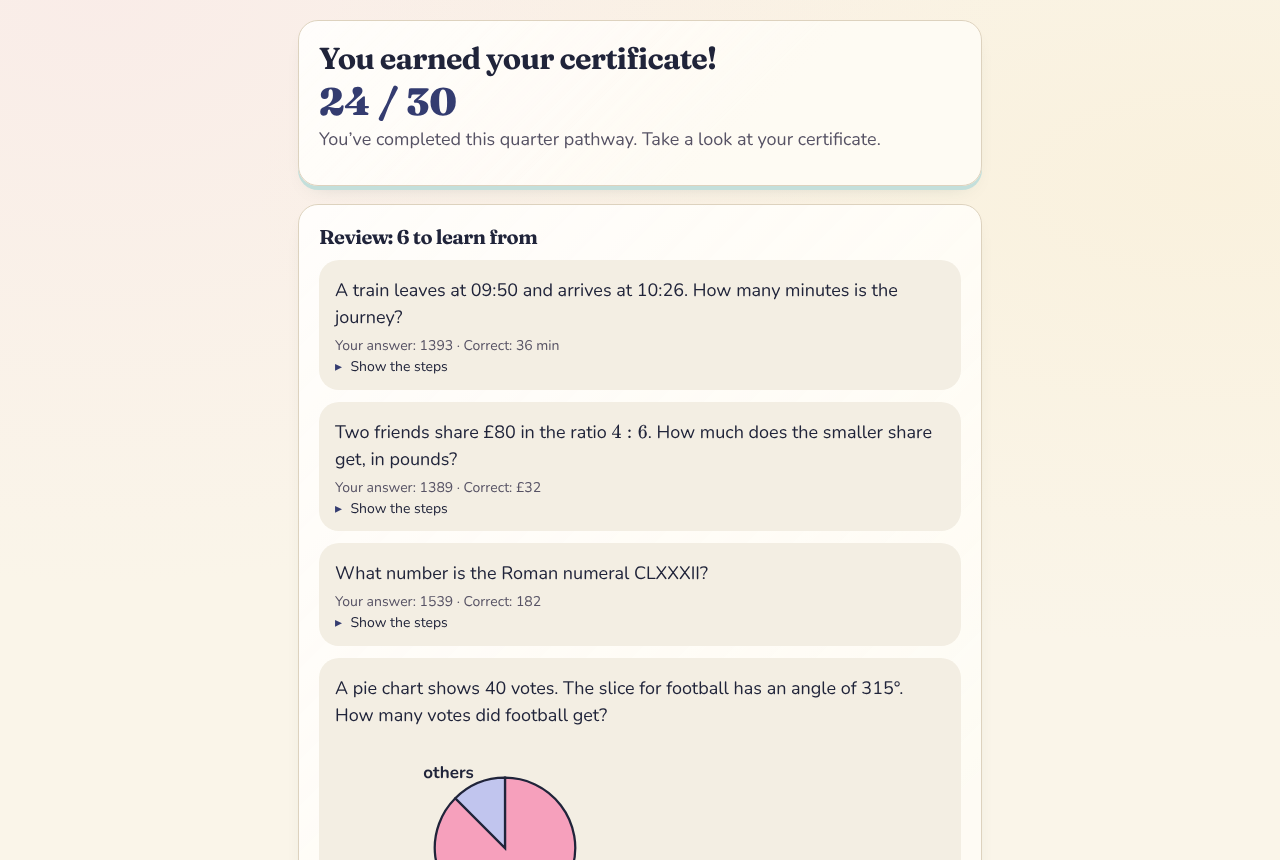
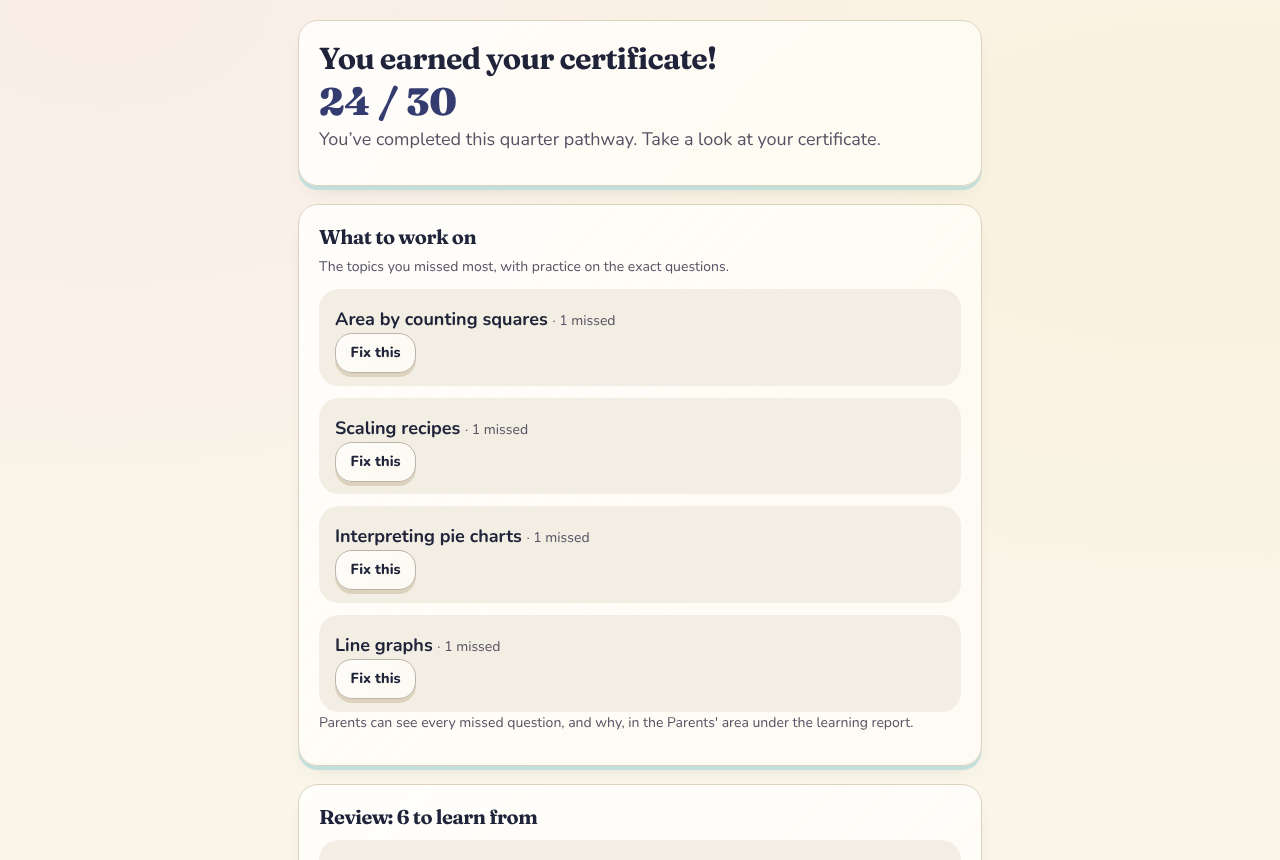
Practice paper results: What to work on with Fix this; check-up and paper questions carry seeds; script to collect official 11+ pages; docs updated
Claude-Session: https://claude.ai/code/session_01Qdz8m3LRPahDuy21jw456m

Changed region(s): [[0.25, 0.4837, 0.7188, 0.8465], [0.25, 0.2721, 0.6875, 0.4535], [0.2188, 0.8767, 0.7812, 1.0]]

diff --git a/maths/scripts/fetch-11plus-pages.ts b/maths/scripts/fetch-11plus-pages.ts
@@ -1,0 +1,64 @@
+/**
+ * Collects the official 11+ pages for the areas whose test isn't recorded yet, so they can be read and cited.
+ *
+ *   npx tsx scripts/fetch-11plus-pages.ts            # the areas with no test recorded
+ *   npx tsx scripts/fetch-11plus-pages.ts bcp reading  # just these
+ *
+ * For each area it reads the school and council pages already linked in src/parents/admissions.json, plus up to three more pages on the
+ * same site whose link text looks about the entrance test (admissions, 11+, entrance, selective, test, register, eligibility). The readable
+ * text goes to docs/research/11plus/<area>.md with the address and date of each page, so nothing is quoted from memory. Commit and push
+ * the folder, then the details can be filled into admissions.json with quotes and sources. Needs a normal internet connection (for
+ * example the Replit shell), because some council and school sites aren't reachable from every network.
+ */
+import { execFileSync } from "node:child_process";
+import { mkdirSync, readFileSync, writeFileSync } from "node:fs";
+import { dirname, resolve } from "node:path";
+import { fileURLToPath } from "node:url";
+
+const root = resolve(dirname(fileURLToPath(import.meta.url)), "..");
+const admissions: { id: string; area: string; links: { label: string; path: string }[]; test?: unknown }[] = JSON.parse(readFileSync(resolve(root, "src/parents/admissions.json"), "utf8"));
+const wanted = process.argv.slice(2);
+const areas = admissions.filter((a) => (wanted.length ? wanted.includes(a.id) : !a.test));
+const KEYWORDS = /11\s*\+|eleven|entrance|selective|selection|admission|test|register|registration|eligib|sat|exam|assessment|how to apply|year 7/i;
+const MAX_TEXT = 40_000, EXTRA_PAGES = 3;
+const ua = "Mozilla/5.0 (compatible; quarter-research)";
+
+const get = async (url: string): Promise<string> => {
+  try {
+    const res = await fetch(url, { headers: { "User-Agent": ua, Accept: "text/html,*/*" }, redirect: "follow", signal: AbortSignal.timeout(25_000) });
+    if (!res.ok) throw new Error(`HTTP ${res.status}`);
+    return await res.text();
+  } catch (e) {
+    if ((e as Error).message.startsWith("HTTP")) throw e;
+    return execFileSync("curl", ["-sSfL", "-m", "30", "-A", ua, url], { encoding: "utf8", maxBuffer: 20_000_000 });
+  }
+};
+const entities: Record<string, string> = { amp: "&", lt: "<", gt: ">", quot: '"', apos: "'", nbsp: " ", rsquo: "’", lsquo: "‘", ldquo: "“", rdquo: "”", ndash: "–", mdash: "—", pound: "£" };
+const decode = (s: string) => s.replace(/&#(\d+);/g, (_, n) => String.fromCodePoint(+n)).replace(/&([a-z]+);/gi, (m, n) => entities[n.toLowerCase()] ?? m);
+const text = (html: string) => decode(html.replace(/<(script|style|noscript|svg|nav|footer|header)\b[\s\S]*?<\/\1>/gi, " ").replace(/<(br|\/p|\/div|\/li|\/h[1-6]|\/tr)\b[^>]*>/gi, "\n").replace(/<[^>]+>/g, " ")).replace(/[ \t]+/g, " ").replace(/\n\s*\n+/g, "\n\n").trim();
+const links = (html: string, base: string) => [...html.matchAll(/<a\b[^>]*href="([^"#]+)"[^>]*>([\s\S]*?)<\/a>/gi)].flatMap((m) => {
+  try { const u = new URL(decode(m[1]), base); const label = text(m[2]).slice(0, 80); return u.protocol.startsWith("http") && KEYWORDS.test(`${label} ${u.pathname}`) && !/\.(pdf|jpg|png|docx?)$/i.test(u.pathname) ? [{ url: u.href, label }] : []; } catch { return []; }
+});
+
+mkdirSync(resolve(root, "docs/research/11plus"), { recursive: true });
+for (const area of areas) {
+  const out: string[] = [`# ${area.area} (${area.id})`, "", `Collected ${new Date().toISOString().slice(0, 10)} by scripts/fetch-11plus-pages.ts. Read before quoting; the text is machine-extracted.`, ""];
+  const seen = new Set<string>();
+  for (const l of area.links) {
+    let extra: { url: string; label: string }[] = [];
+    for (const [label, url] of [[l.label, l.path], ...extra.map((x) => [x.label, x.url] as [string, string])]) {
+      if (seen.has(url)) continue; seen.add(url);
+      try {
+        const html = await get(url);
+        out.push(`## ${label}`, `Address: ${url}`, "", text(html).slice(0, MAX_TEXT), "");
+        if (label === l.label) {
+          const host = new URL(url).host;
+          extra = links(html, url).filter((x) => new URL(x.url).host === host && !seen.has(x.url)).slice(0, EXTRA_PAGES);
+          for (const x of extra) { seen.add(x.url); try { out.push(`## ${x.label} (linked from the page above)`, `Address: ${x.url}`, "", text(await get(x.url)).slice(0, MAX_TEXT), ""); } catch (e) { out.push(`## ${x.label}`, `Address: ${x.url}`, `Could not be read: ${(e as Error).message}`, ""); } }
+        }
+      } catch (e) { out.push(`## ${label}`, `Address: ${url}`, `Could not be read: ${(e as Error).message}`, ""); }
+    }
+  }
+  writeFileSync(resolve(root, `docs/research/11plus/${area.id}.md`), out.join("\n"));
+  console.log(`${area.id}: ${seen.size} pages`);
+}

diff --git a/maths/src/ui/mock.tsx b/maths/src/ui/mock.tsx
@@ -5,7 +5,7 @@ import { check } from "../engine/check";
 import { PAPERS, buildMock, type MockItem, type PaperKind } from "../engine/mock";
 import { awardPathwayCertificate, buildPathwayTest, canTakePathwayTest, pathwayPassMark, pathwayTestName } from "../engine/pathway";
 import { addPoints, recordAnswer, recordMistake, type MockRecord } from "../engine/progress";
-import { recordWrongOnce } from "../engine/wrong-log";
+import { fixPlan, recordWrongOnce, wrongLogOf } from "../engine/wrong-log";
 import { mulberry32 } from "../engine/rng";
 import type { Stage, Strand } from "../engine/types";
 import { AnswerInput } from "./answer-input";
@@ -31,7 +31,7 @@ export function Mock({ pathway }: { pathway?: Stage }) {
     const rng = mulberry32(seed);
     const items: { skillId: string; level: number; section?: string }[] = pathway ? buildPathwayTest(pathway, rng) : buildMock(rng, kind);
     return {
-      questions: items.map((item, index) => SKILL_BY_ID[item.skillId].generate(mulberry32(seed + index * 7919), item.level)),
+      questions: items.map((item, index) => ({ ...SKILL_BY_ID[item.skillId].generate(mulberry32(seed + index * 7919), item.level), seed: seed + index * 7919 })), // the seed lets a missed question be asked again
       sections: pathway ? undefined : (items as MockItem[]).map((item) => item.section),
     };
   }, [pathway, saved, kind]);
@@ -213,6 +213,27 @@ export function Mock({ pathway }: { pathway?: Stage }) {
             </ul>
           </div>
         )}
+        {missed.length > 0 && (() => {
+          const bySkill = new Map<string, number>();
+          for (const t of missed) bySkill.set(t.q.skill, (bySkill.get(t.q.skill) ?? 0) + 1);
+          const worst = [...bySkill].sort((a, b) => b[1] - a[1]).slice(0, 4);
+          const pace = taken.length && rec ? Math.round(rec.seconds / taken.length) : null;
+          return (
+            <div class="card" data-testid="paper-work-on">
+              <h2>What to work on</h2>
+              <p class="small muted">The topics you missed most, with practice on the exact questions.{pace ? ` You averaged ${pace} seconds a question.` : ""}</p>
+              <ul class="finding-list">
+                {worst.map(([id, n]) => (
+                  <li key={id}>
+                    <p><strong>{SKILL_BY_ID[id].name}</strong> <span class="muted small">· {n} missed</span></p>
+                    <button class="btn small" onClick={() => go({ name: "practice", plan: fixPlan(wrongLogOf(profile), id) }, { name: "home" })} data-testid={`paper-fix-${id}`}>Fix this</button>
+                  </li>
+                ))}
+              </ul>
+              <p class="small muted">Parents can see every missed question, and why, in the Parents' area under the learning report.</p>
+            </div>
+          );
+        })()}
         <div class="card">
           <h2>{missed.length ? `Review: ${missed.length} to learn from` : "No mistakes to review"}</h2>
           <ul class="finding-list">

diff --git a/maths/src/ui/checkup.tsx b/maths/src/ui/checkup.tsx
@@ -35,7 +35,7 @@ export function Checkup() {
     const item = nextItem(s, rng);
     if (!item) return finish(s);
     const skill = SKILL_BY_ID[item.skillId];
-    setQ(skill.generate(mulberry32((Date.now() + s.n * 7919) & 0x7fffffff), item.level));
+    { const seed = (Date.now() + s.n * 7919) & 0x7fffffff; setQ({ ...skill.generate(mulberry32(seed), item.level), seed }); } // the seed lets a missed question be asked again
     setLevel(item.level);
     setValues([""]);
     setNote("");

diff --git a/maths/docs/ROADMAP.md b/maths/docs/ROADMAP.md
@@ -103,6 +103,10 @@ Built on top of it: a **Fix this** practice set (the exact questions again, then
 
 Still to do: a teacher's review of the methods and reasons wording, and per-topic (not just per-family) methods for the biggest topics.
 
+## 11+ track: what is left
+
+Done: practice papers with part and topic breakdowns, a "What to work on" card with Fix this buttons, and wrong answers logged into the learning report. Still to do, and waiting on official sources: the test provider and parts for BCP, Calderdale, Lancashire, Liverpool, Reading, Redbridge and Westmorland, and a per-school grammar table. Run `npm run fetch:11plus` from a machine with normal internet access (the Replit shell works), commit `docs/research/11plus/`, and the details can be filled in with quotes, a source link and a checked date, as for the other areas (`src/parents/admissions.json`, checked by `src/parents/admissions.test.ts`).
+
 ## Times tables challenge (built)
 
 Timed challenges on the times tables page, for fun and to make revision stick. Two modes: a **60-second blitz** (most right) and a **25-question race** (fastest, with 3 seconds added for each wrong answer), each on **My tables** or **All tables** (the fair one to compare). Every learner keeps personal bests and their recent rounds. A **Scoreboard** shows a learner's own results and a **family board** across every learner on the same account, so brothers and sisters can compete; it shows nicknames, avatars and best scores only. A grown-up can hide a learner from the board (Parents' area, Settings). Answers still feed the facts grid, so rounds make the facts quicker. The wording is always about beating your own best, and a slow round is never shown as a low score. Code: `src/engine/tables-challenge.ts`, `src/ui/tables-challenge.tsx`; check: `npm run e2e:challenge`.

diff --git a/maths/docs/CHANGELOG.md b/maths/docs/CHANGELOG.md
@@ -2,6 +2,10 @@
 
 A running list of what has been added, newest first. Each commit that changes what a learner or parent sees also updates the matching docs, the user guides in `src/guides/content.ts`, and the roadmap. Run the matching checks (`npm test` and the `e2e:*` scripts listed in `docs/ROADMAP.md`) before pushing.
 
+## Practice paper results, and 11+ research helper
+- Practice paper and check-up questions now carry their seed, so a missed one can be asked again exactly. The paper result has a **What to work on** card: the topics missed most, average seconds a question, and a Fix this button for each.
+- `npm run fetch:11plus` collects the official school and council pages for the seven 11+ areas with no test recorded (BCP, Calderdale, Lancashire, Liverpool, Reading, Redbridge, Westmorland) into `docs/research/11plus/`, so the details can be filled in with quotes and sources. Those sites were not reachable from the build environment, so nothing was filled from memory.
+
 ## Labels on icon buttons
 The two help icons on Me now show what they are: instantly on mouse hover and keyboard focus, and on a touch screen when pressed and held (the label fades after a moment, and releasing doesn't open anything). Screen readers always had the label. The reusable `TipButton` (`src/ui/tip.tsx`) is there for other icon-only buttons. Check: `npm run e2e:guides`.
 
